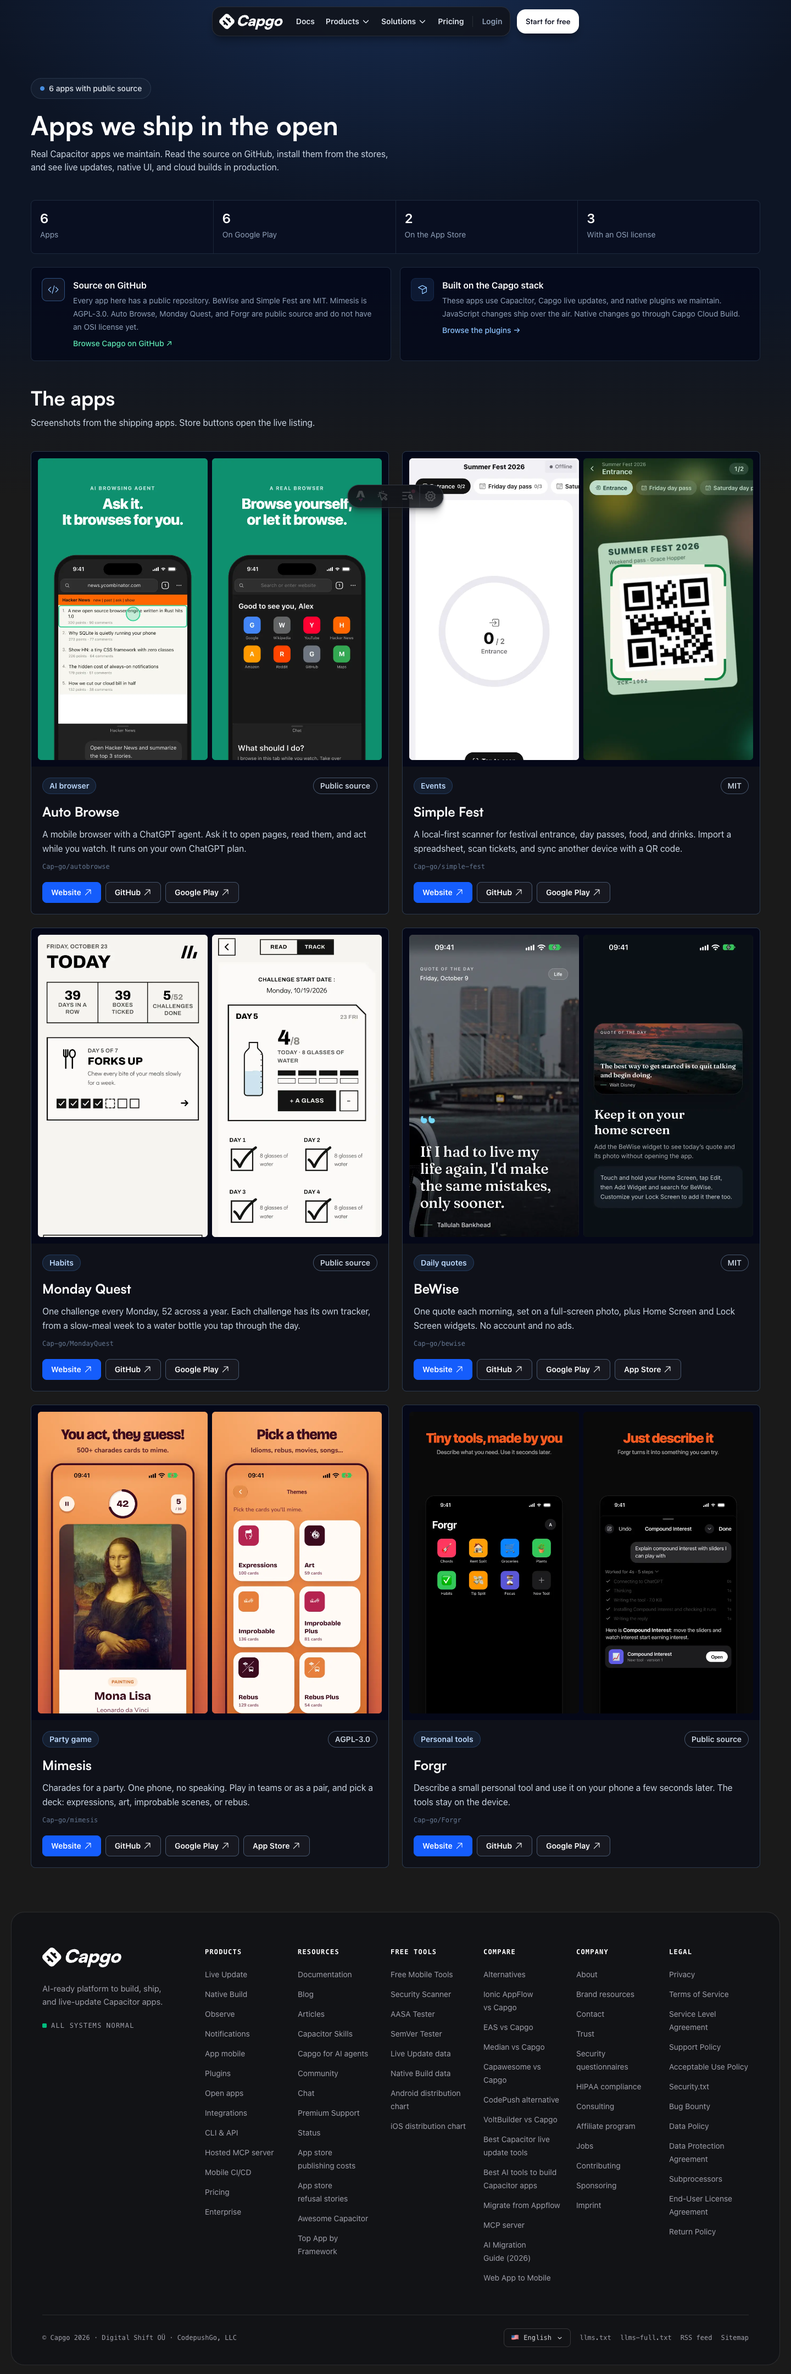
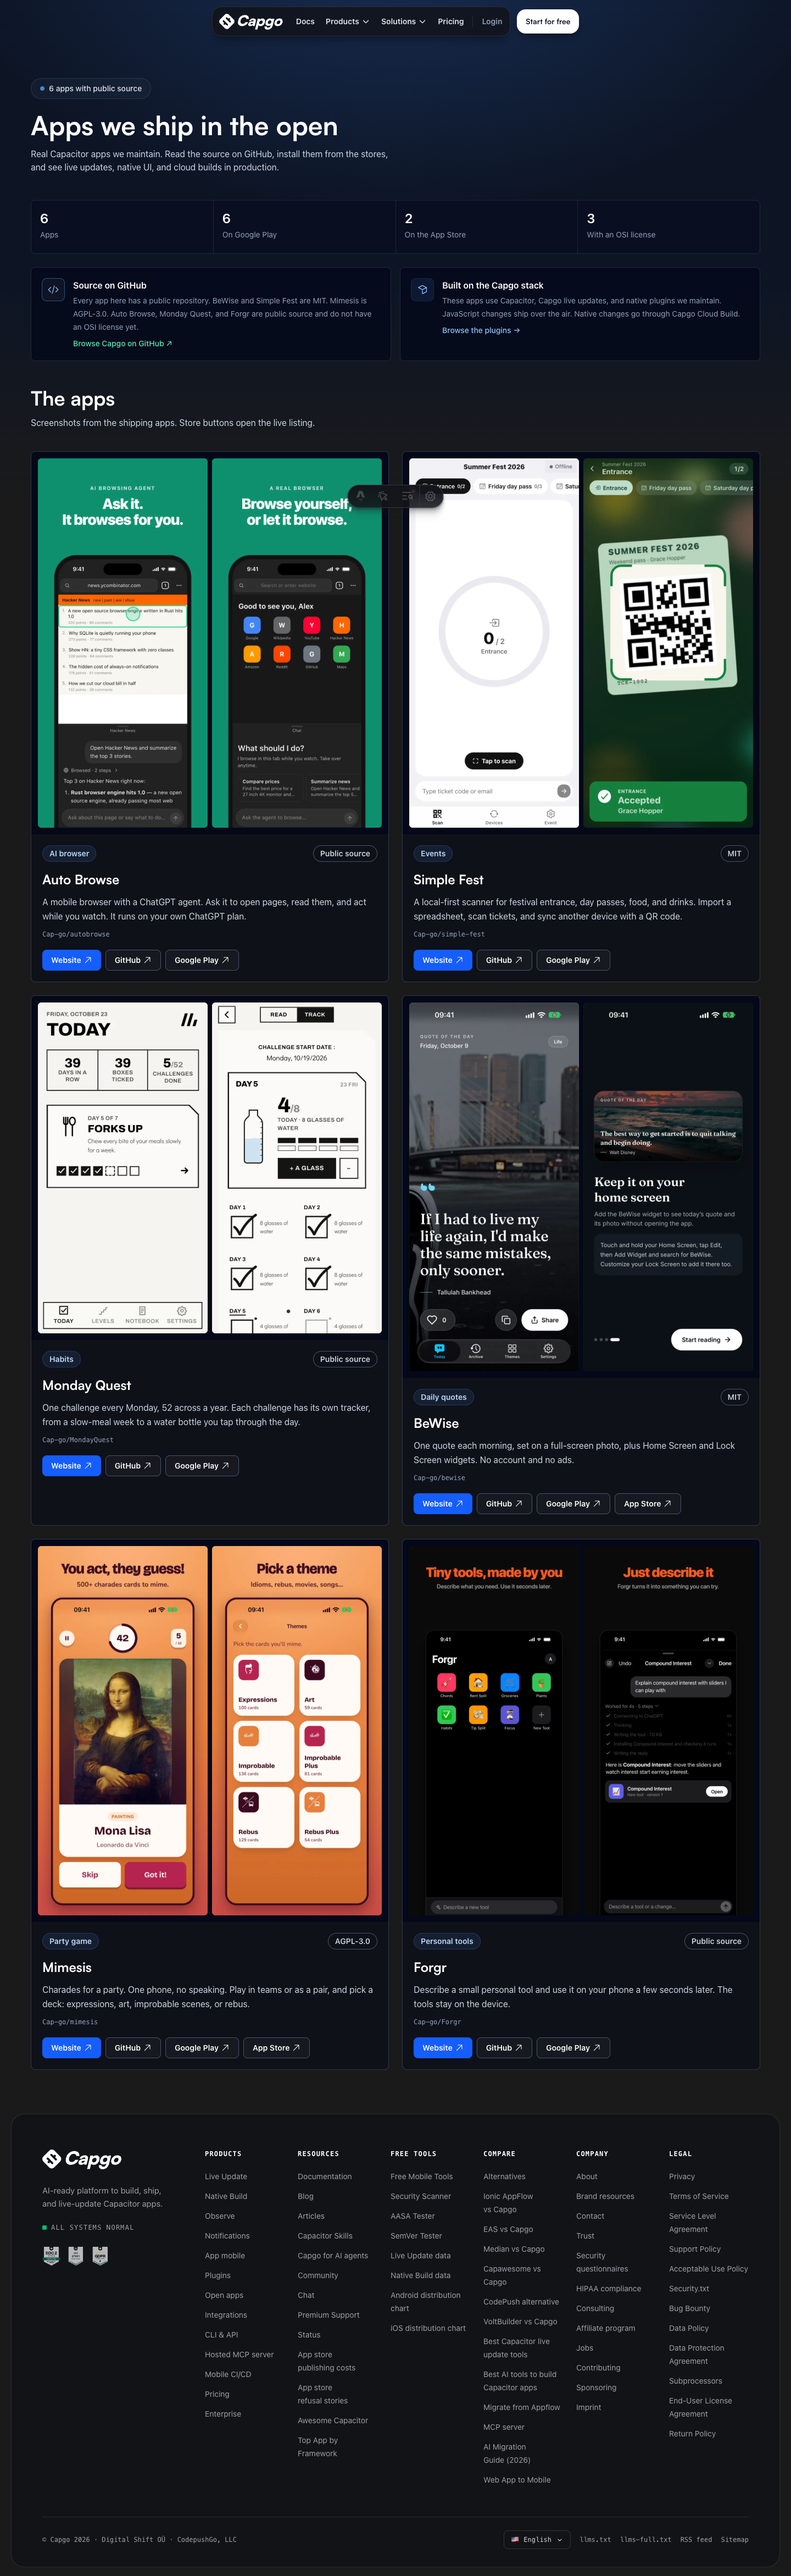
fix(web): use catalog copy and uncropped app screenshots
The repository line was below 4.5:1 on the dark card, the page kept a second copy map beside the catalog keys, and the 9:16 crop cut the bottoms off the phone screenshots.

diff --git a/apps/web/src/config/ossApps.ts b/apps/web/src/config/ossApps.ts
@@ -1,7 +1,25 @@
 export type OssAppLicense = 'mit' | 'agpl' | 'public'
 
+const screenshotAltKeys = [
+  'oss_apps_autobrowse_chat_alt',
+  'oss_apps_autobrowse_home_alt',
+  'oss_apps_simplefest_home_alt',
+  'oss_apps_simplefest_scan_alt',
+  'oss_apps_mondayquest_today_alt',
+  'oss_apps_mondayquest_track_alt',
+  'oss_apps_bewise_today_alt',
+  'oss_apps_bewise_widget_alt',
+  'oss_apps_mimesis_playing_alt',
+  'oss_apps_mimesis_themes_alt',
+  'oss_apps_forgr_home_alt',
+  'oss_apps_forgr_chat_alt',
+] as const
+
+type ScreenshotAltKey = (typeof screenshotAltKeys)[number]
+
 export interface OssAppScreenshot {
   src: string
+  altKey: ScreenshotAltKey
   width: number
   height: number
 }
@@ -44,14 +62,14 @@ export interface OssApp {
 const SCREENSHOT_WIDTH = 640
 
 // One row per app so Sonar does not treat the catalog as duplicated object literals.
-// id|name|repo|kind|license|website|playId|appStore|screenshotA|screenshotB|height
+// id|name|repo|kind|license|website|playId|appStore|srcA|altA|srcB|altB|height
 const ossAppRows = String.raw`
-autobrowse|Auto Browse|Cap-go/autobrowse|browser|public|https://autobrowse.dev/|app.capgo.browser||/oss-apps/auto-chat.webp|/oss-apps/auto-main.webp|1391
-simplefest|Simple Fest|Cap-go/simple-fest|events|mit|https://simplefest.app/|ee.forgr.festivalscan||/oss-apps/fest-home.webp|/oss-apps/fest-scan.webp|1391
-mondayquest|Monday Quest|Cap-go/MondayQuest|habits|public|https://mondayquest.com/|ee.forgr.mondayquest||/oss-apps/monday-today.webp|/oss-apps/monday-track.webp|1248
-bewise|BeWise|Cap-go/bewise|quotes|mit|https://bewise.love/|ee.forgr.bewise|https://apps.apple.com/app/id1448918843|/oss-apps/bewise-today.webp|/oss-apps/bewise-widget.webp|1391
-mimesis|Mimesis|Cap-go/mimesis|game|agpl|https://mimesis.fun/|ee.forgr.mimesis|https://apps.apple.com/app/id1559423136|/oss-apps/mimesis-playing.webp|/oss-apps/mimesis-themes.webp|1391
-forgr|Forgr|Cap-go/Forgr|tools|public|https://forgr.ee/|app.capgo.mapp||/oss-apps/forgr-home.webp|/oss-apps/forgr-chat.webp|1391
+autobrowse|Auto Browse|Cap-go/autobrowse|browser|public|https://autobrowse.dev/|app.capgo.browser||/oss-apps/auto-chat.webp|oss_apps_autobrowse_chat_alt|/oss-apps/auto-main.webp|oss_apps_autobrowse_home_alt|1391
+simplefest|Simple Fest|Cap-go/simple-fest|events|mit|https://simplefest.app/|ee.forgr.festivalscan||/oss-apps/fest-home.webp|oss_apps_simplefest_home_alt|/oss-apps/fest-scan.webp|oss_apps_simplefest_scan_alt|1391
+mondayquest|Monday Quest|Cap-go/MondayQuest|habits|public|https://mondayquest.com/|ee.forgr.mondayquest||/oss-apps/monday-today.webp|oss_apps_mondayquest_today_alt|/oss-apps/monday-track.webp|oss_apps_mondayquest_track_alt|1248
+bewise|BeWise|Cap-go/bewise|quotes|mit|https://bewise.love/|ee.forgr.bewise|https://apps.apple.com/app/id1448918843|/oss-apps/bewise-today.webp|oss_apps_bewise_today_alt|/oss-apps/bewise-widget.webp|oss_apps_bewise_widget_alt|1391
+mimesis|Mimesis|Cap-go/mimesis|game|agpl|https://mimesis.fun/|ee.forgr.mimesis|https://apps.apple.com/app/id1559423136|/oss-apps/mimesis-playing.webp|oss_apps_mimesis_playing_alt|/oss-apps/mimesis-themes.webp|oss_apps_mimesis_themes_alt|1391
+forgr|Forgr|Cap-go/Forgr|tools|public|https://forgr.ee/|app.capgo.mapp||/oss-apps/forgr-home.webp|oss_apps_forgr_home_alt|/oss-apps/forgr-chat.webp|oss_apps_forgr_chat_alt|1391
 `
   .trim()
   .split('\n')
@@ -59,12 +77,18 @@ forgr|Forgr|Cap-go/Forgr|tools|public|https://forgr.ee/|app.capgo.mapp||/oss-app
 const isAppId = (value: string): value is AppId => value in summaryKeyById
 const isAppKind = (value: string): value is AppKind => value in kindKeyByKind
 const isLicense = (value: string): value is OssAppLicense => value === 'mit' || value === 'agpl' || value === 'public'
+const isAltKey = (value: string): value is ScreenshotAltKey => (screenshotAltKeys as readonly string[]).includes(value)
 
-const screenshot = (src: string, height: number): OssAppScreenshot => ({ src, width: SCREENSHOT_WIDTH, height })
+const screenshot = (src: string, altKey: ScreenshotAltKey, height: number): OssAppScreenshot => ({
+  src,
+  altKey,
+  width: SCREENSHOT_WIDTH,
+  height,
+})
 
 export const ossApps: OssApp[] = ossAppRows.map((row) => {
-  const [id, name, repo, kind, license, website, playId, appStore, srcA, srcB, heightRaw] = row.split('|')
-  if (!isAppId(id) || !isAppKind(kind) || !isLicense(license) || !srcA || !srcB) {
+  const [id, name, repo, kind, license, website, playId, appStore, srcA, altA, srcB, altB, heightRaw] = row.split('|')
+  if (!isAppId(id) || !isAppKind(kind) || !isLicense(license) || !srcA || !altA || !isAltKey(altA) || !srcB || !altB || !isAltKey(altB)) {
     throw new Error(`Invalid open app row: ${row}`)
   }
 
@@ -82,6 +106,6 @@ export const ossApps: OssApp[] = ossAppRows.map((row) => {
     github: `https://github.com/${repo}/`,
     play: `https://play.google.com/store/apps/details?id=${playId}`,
     ...(appStore ? { appStore } : {}),
-    screenshots: [screenshot(srcA, height), screenshot(srcB, height)],
+    screenshots: [screenshot(srcA, altA, height), screenshot(srcB, altB, height)],
   }
 })
